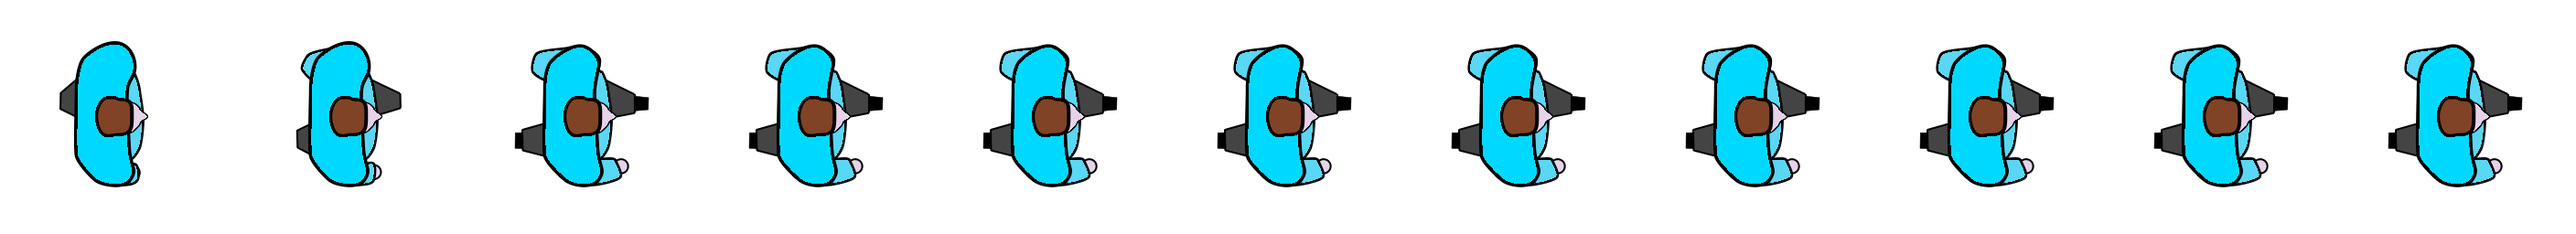
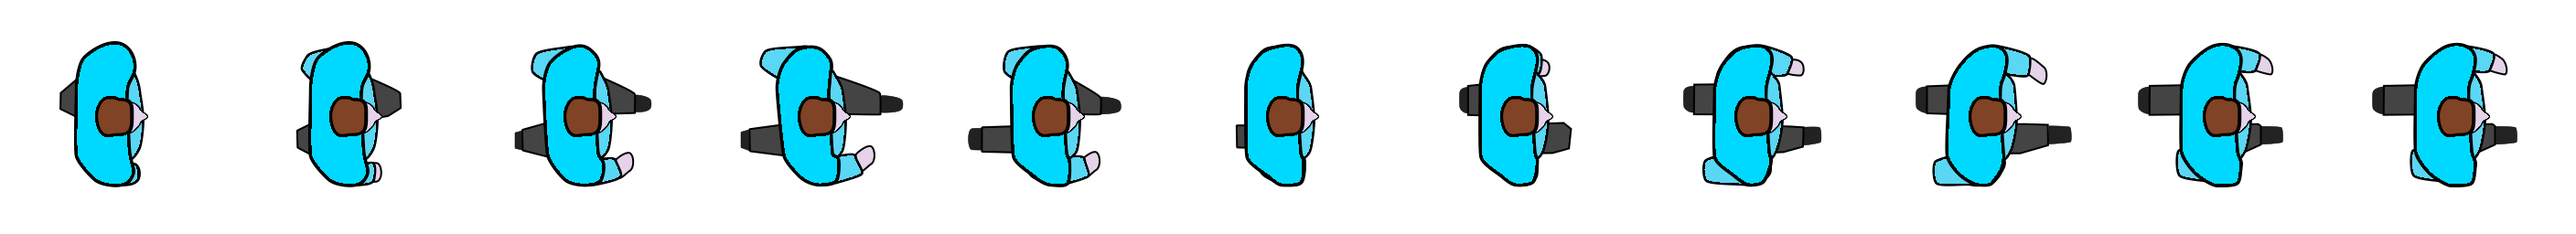
feat: finished walk anim (needs refine)

diff --git a/docs/TODO.md b/docs/TODO.md
@@ -18,7 +18,7 @@
     - ✅ review and refine 1st 3 frames
     - 4th ✅ 5th ✅ 6th ✅
     - refine ✅
-    - 7th ✅ 8th ✅ 9th ✅ 10th 🚧
+    - 7th ✅ 8th ✅ 9th ✅ 10th ✅
     - refine
 
 - ✅ Abandon _moving seg_ vs _static seg_ collision prediction
